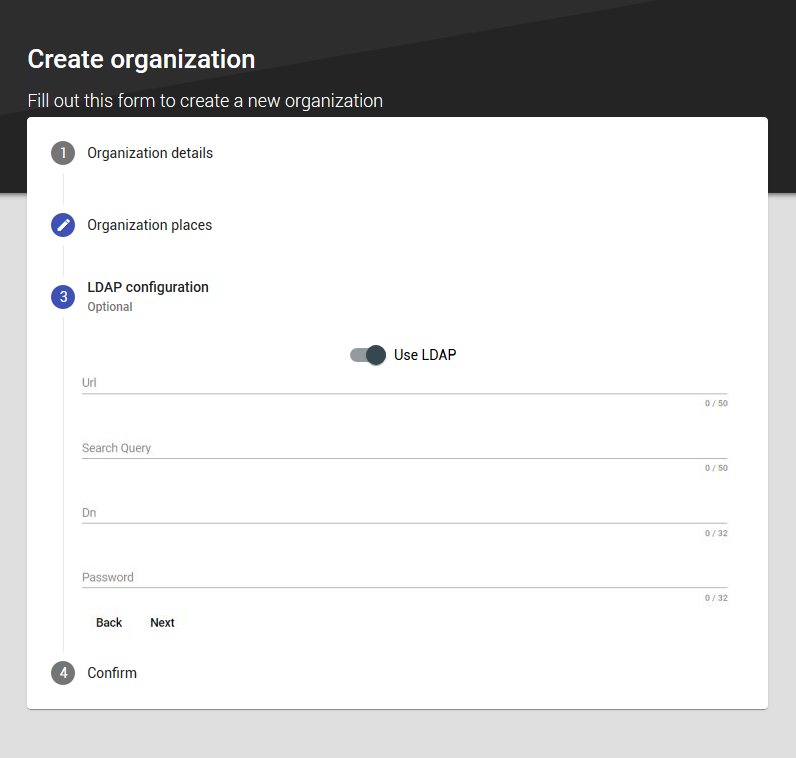
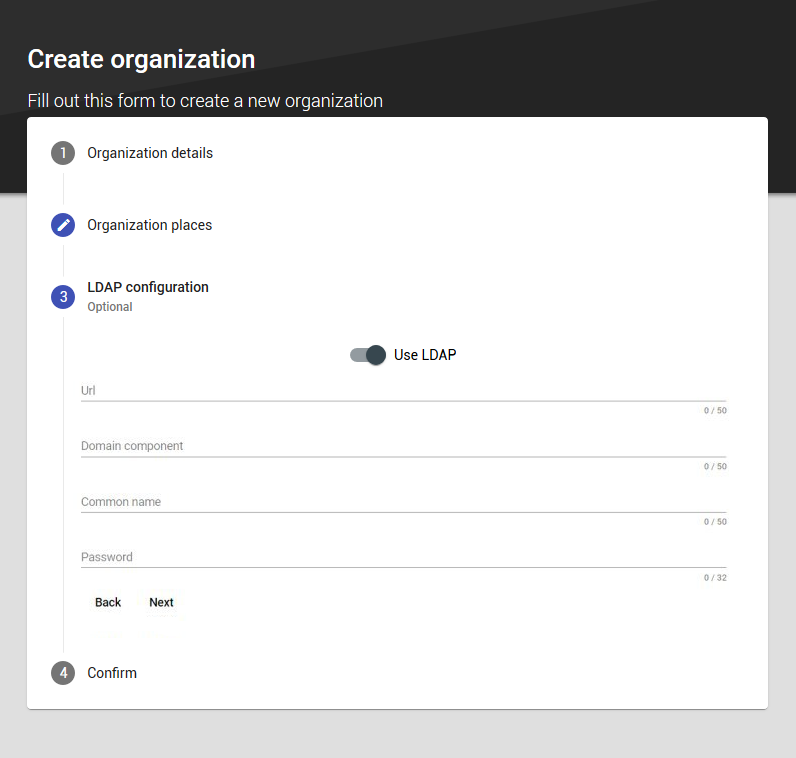
docs: aggiorna ldap webapp

diff --git a/esterni/manuale-utente/components/web-application.tex b/esterni/manuale-utente/components/web-application.tex
@@ -256,8 +256,8 @@ I 4 passaggi per la creazione sono i seguenti:
     I campi che devono essere compilati sono:
     \begin{description}
       \item[Url:] che corrisponde all'indirizzo IP del server LDAP per l'autenticazione.
-      \item[Search query:]  che corrisponde all'interrogazione da effettuare al server ldap.
-      \item[Dn:] che è il nome distinto per accedere all'organizzazione privata.
+      \item[Domain Component:]  che corrisponde al dominio dell'organizzazione.
+      \item[Common Name:] che è il nome distinto per accedere all'organizzazione privata.
       \item[Password:] che è la password per accedere all'organizzazione privata.
   \end{description}
     Cliccando \textbf{Back} si torna al passaggio 2, mentre cliccando \textbf{Next} si va al passaggio 4.
@@ -322,8 +322,8 @@ I 5 passaggi per la modifica sono i seguenti:
     I campi che possono essere modificati sono:
     \begin{description}
       \item[Url:] che corrisponde all'indirizzo IP del server LDAP per l'autenticazione.
-      \item[Search query:]  che corrisponde all'interrogazione da effettuare al server ldap.
-      \item[Dn:] che è il nome distinto per accedere all'organizzazione privata.
+      \item[Domain Component:]  che corrisponde al dominio dell'organizzazione.
+      \item[Common Name:] che è il nome distinto per accedere all'organizzazione privata.
       \item[Password:] che è la password per accedere all'organizzazione privata.
   \end{description}
     Cliccando \textbf{Back} si torna al passaggio 2, mentre cliccando \textbf{Next} si va al passaggio 4.
